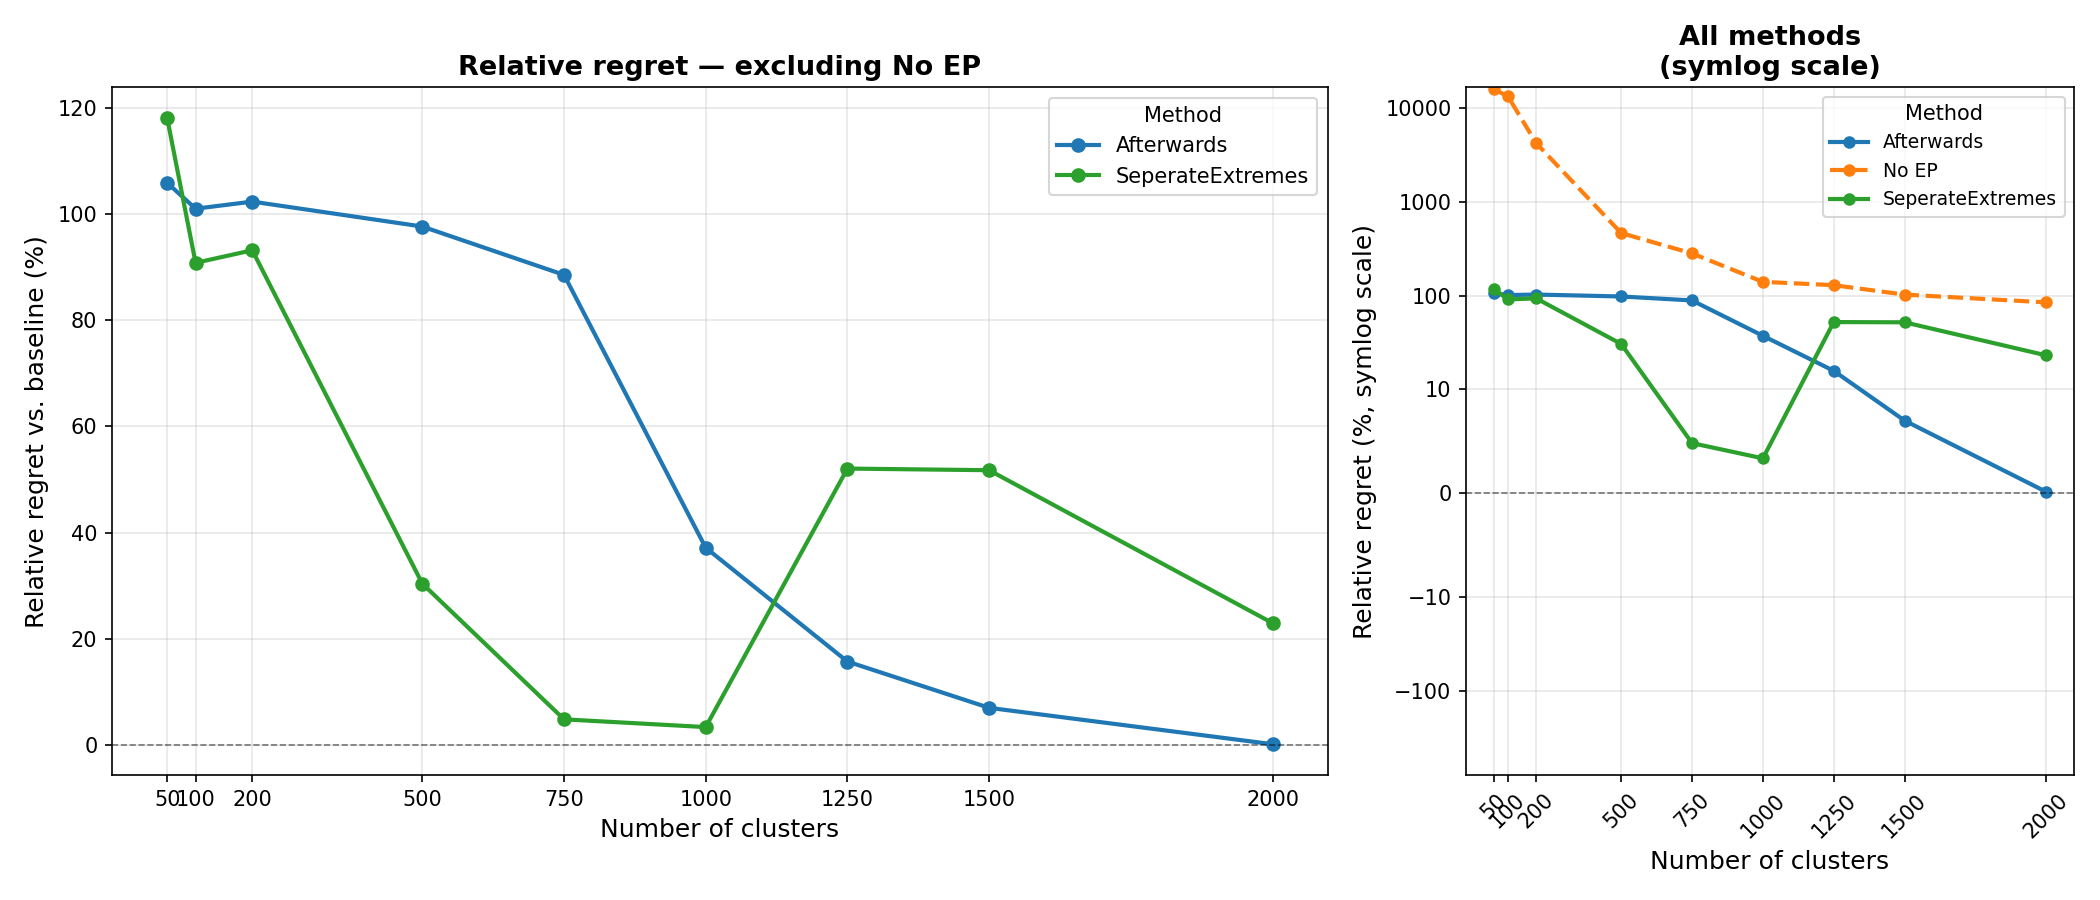
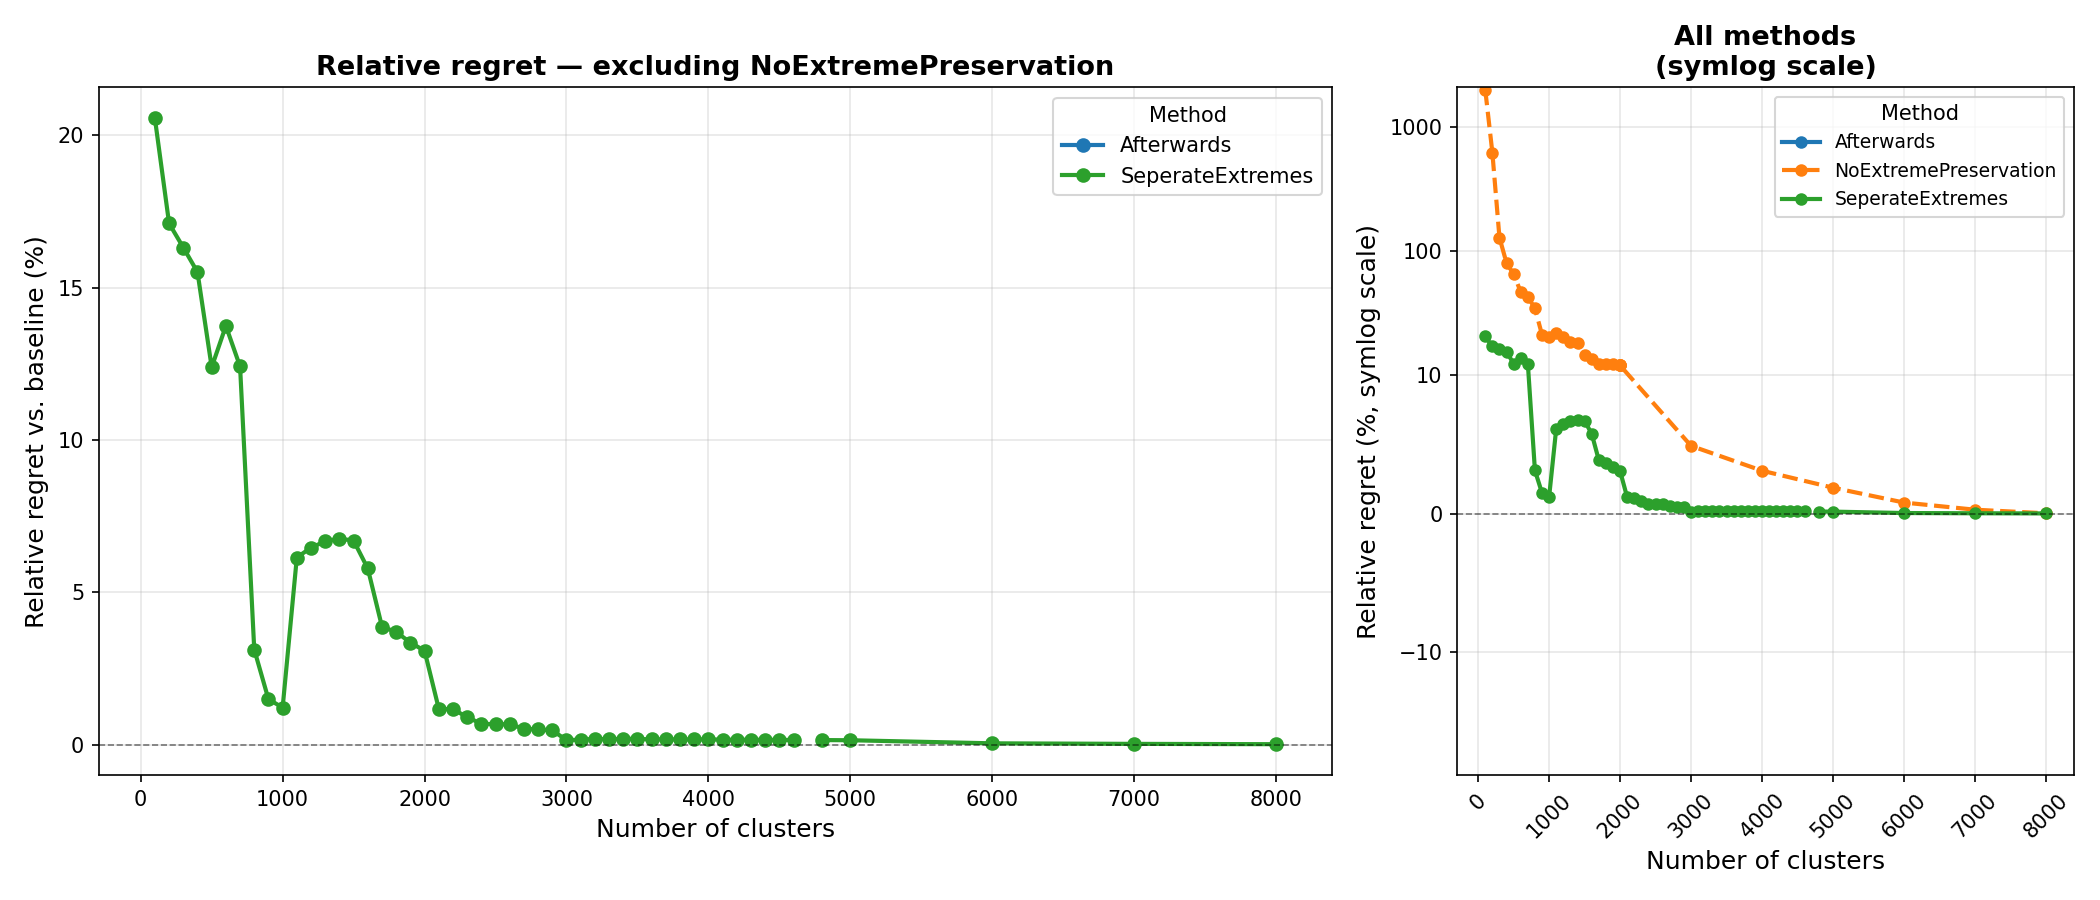
refactor method name

diff --git a/plotting/after/plot_relative_regret_vs_num_clusters.py b/plotting/after/plot_relative_regret_vs_num_clusters.py
@@ -17,12 +17,12 @@ ENS_COST_PER_UNIT = 68887
 # -----------------------------
 df = pd.read_csv(csv_path)
 
-df = df[(df["method"] == "SeperateSum") |  (df["method"] == "Afterwards") |  (df["method"] == "No EP") |  (df["method"] == "base_case")]
+df = df[(df["method"] == "SeperateExtremesSum") |  (df["method"] == "Afterwards") |  (df["method"] == "NoExtremePreservation") |  (df["method"] == "base_case")]
 
 # Clean up method names if needed
 df['method'] = df['method'].str.strip()
 
-df.loc[df["method"] == "SeperateSum", "method"] = "SeperateExtremes"
+df.loc[df["method"] == "SeperateExtremesSum", "method"] = "SeperateExtremes"
 
 df["ens_cost"] = df["energy_not_served"] * ENS_COST_PER_UNIT
 df["total_cost"] = (
@@ -52,19 +52,20 @@ df["relative_regret"] = (df["total_regret"] - baseline_value) * 100 / baseline_v
 plot_df = df[df["num_clusters"] != 8760].copy()
 
 methods = sorted(plot_df["method"].unique())
-x_vals = sorted(plot_df["num_clusters"].unique())
+# x_vals = sorted(plot_df["num_clusters"].unique())
+x_vals = list(range(0, 8760, 1000))
 
 # Colour palette — one colour per method
 colors = plt.cm.tab10.colors
 method_colors = {m: colors[i % len(colors)] for i, m in enumerate(methods)}
 
-no_ep = "No EP"
+no_ep = "NoExtremePreservation"
 other_methods = [m for m in methods if m != no_ep]
 
 # -----------------------------
 # Figure: two-panel layout
-# Main panel  — all methods except No EP
-# Inset panel — all methods including No EP (log scale)
+# Main panel  — all methods except NoExtremePreservation
+# Inset panel — all methods including NoExtremePreservation (log scale)
 # -----------------------------
 fig, (ax_main, ax_log) = plt.subplots(
     1, 2,
@@ -88,7 +89,7 @@ for method in other_methods:
 ax_main.axhline(0, color="black", linewidth=0.8, linestyle="--", alpha=0.5)
 ax_main.set_xlabel("Number of clusters", fontsize=12)
 ax_main.set_ylabel("Relative regret vs. baseline (%)", fontsize=12)
-ax_main.set_title("Relative regret — excluding No EP", fontsize=13, fontweight="bold")
+ax_main.set_title("Relative regret — excluding NoExtremePreservation", fontsize=13, fontweight="bold")
 ax_main.set_xticks(x_vals)
 ax_main.legend(title="Method", fontsize=10)
 ax_main.grid(True, alpha=0.3)

diff --git a/plotting/after/calc_min_num_clusters.py b/plotting/after/calc_min_num_clusters.py
@@ -1,0 +1,25 @@
+import pandas as pd
+
+df = pd.read_csv("outputs/ward_k8760_perlocation_NoExtremePreservation_hp0.95_lp0.05/cons_balance_hub.csv")
+
+# Sort to ensure correct order
+df = df.sort_values(["asset", "year", "rep_period", "time_block_start"]).reset_index(drop=True)
+
+# Detect changes within each asset group
+df["next_value"] = df.groupby(["asset", "year", "rep_period"])["dual_balance_hub"].shift(-1)
+
+# A change occurs when next value differs and we're not at the last row of a group
+df["changed"] = df["dual_balance_hub"] != df["next_value"]
+
+# Count changes per asset (NaN at group boundaries = no change, so dropna handles it)
+changes = (
+    df.dropna(subset=["next_value"])
+    .groupby("asset")["changed"]
+    .sum()
+    .astype(int)
+    .reset_index()
+    .rename(columns={"changed": "n_changes"})
+    .sort_values("n_changes", ascending=False)
+)
+
+print(changes.to_string(index=False))

diff --git a/plotting/after/plot_regret.py b/plotting/after/plot_regret.py
@@ -18,12 +18,12 @@ output_dir.mkdir(parents=True, exist_ok=True)
 df = pd.read_csv(csv_path)
 
 df = df[(df["num_clusters"] == 8760) |  (df["num_clusters"] == n_prime)]
-df = df[(df["method"] == "SeperateSum") |  (df["method"] == "Afterwards") |  (df["method"] == "No EP") |  (df["method"] == "base_case")]
+df = df[(df["method"] == "SeperateExtremesSum") |  (df["method"] == "Afterwards") |  (df["method"] == "NoExtremePreservation") |  (df["method"] == "base_case")]
 
 # Clean up method names if needed
 df['method'] = df['method'].str.strip()
 
-df.loc[df["method"] == "SeperateSum", "method"] = "SeperateExtremes"
+df.loc[df["method"] == "SeperateExtremesSum", "method"] = "SeperateExtremes"
 
 # -----------------------------
 # Set style

diff --git a/plotting/after/plot_regret_vs_num_clusters_one_method.py b/plotting/after/plot_regret_vs_num_clusters_one_method.py
@@ -18,7 +18,7 @@ ENS_COST_PER_UNIT = 68887
 df = pd.read_csv(csv_path)
 
 # Filter to SeperateSum only
-df = df[df["method"].str.strip() == "SeperateSum"].copy()
+df = df[df["method"].str.strip() == "SeperateExtremesSum"].copy()
 
 # Cost components
 df["ens_cost"] = df["energy_not_served"] * ENS_COST_PER_UNIT
